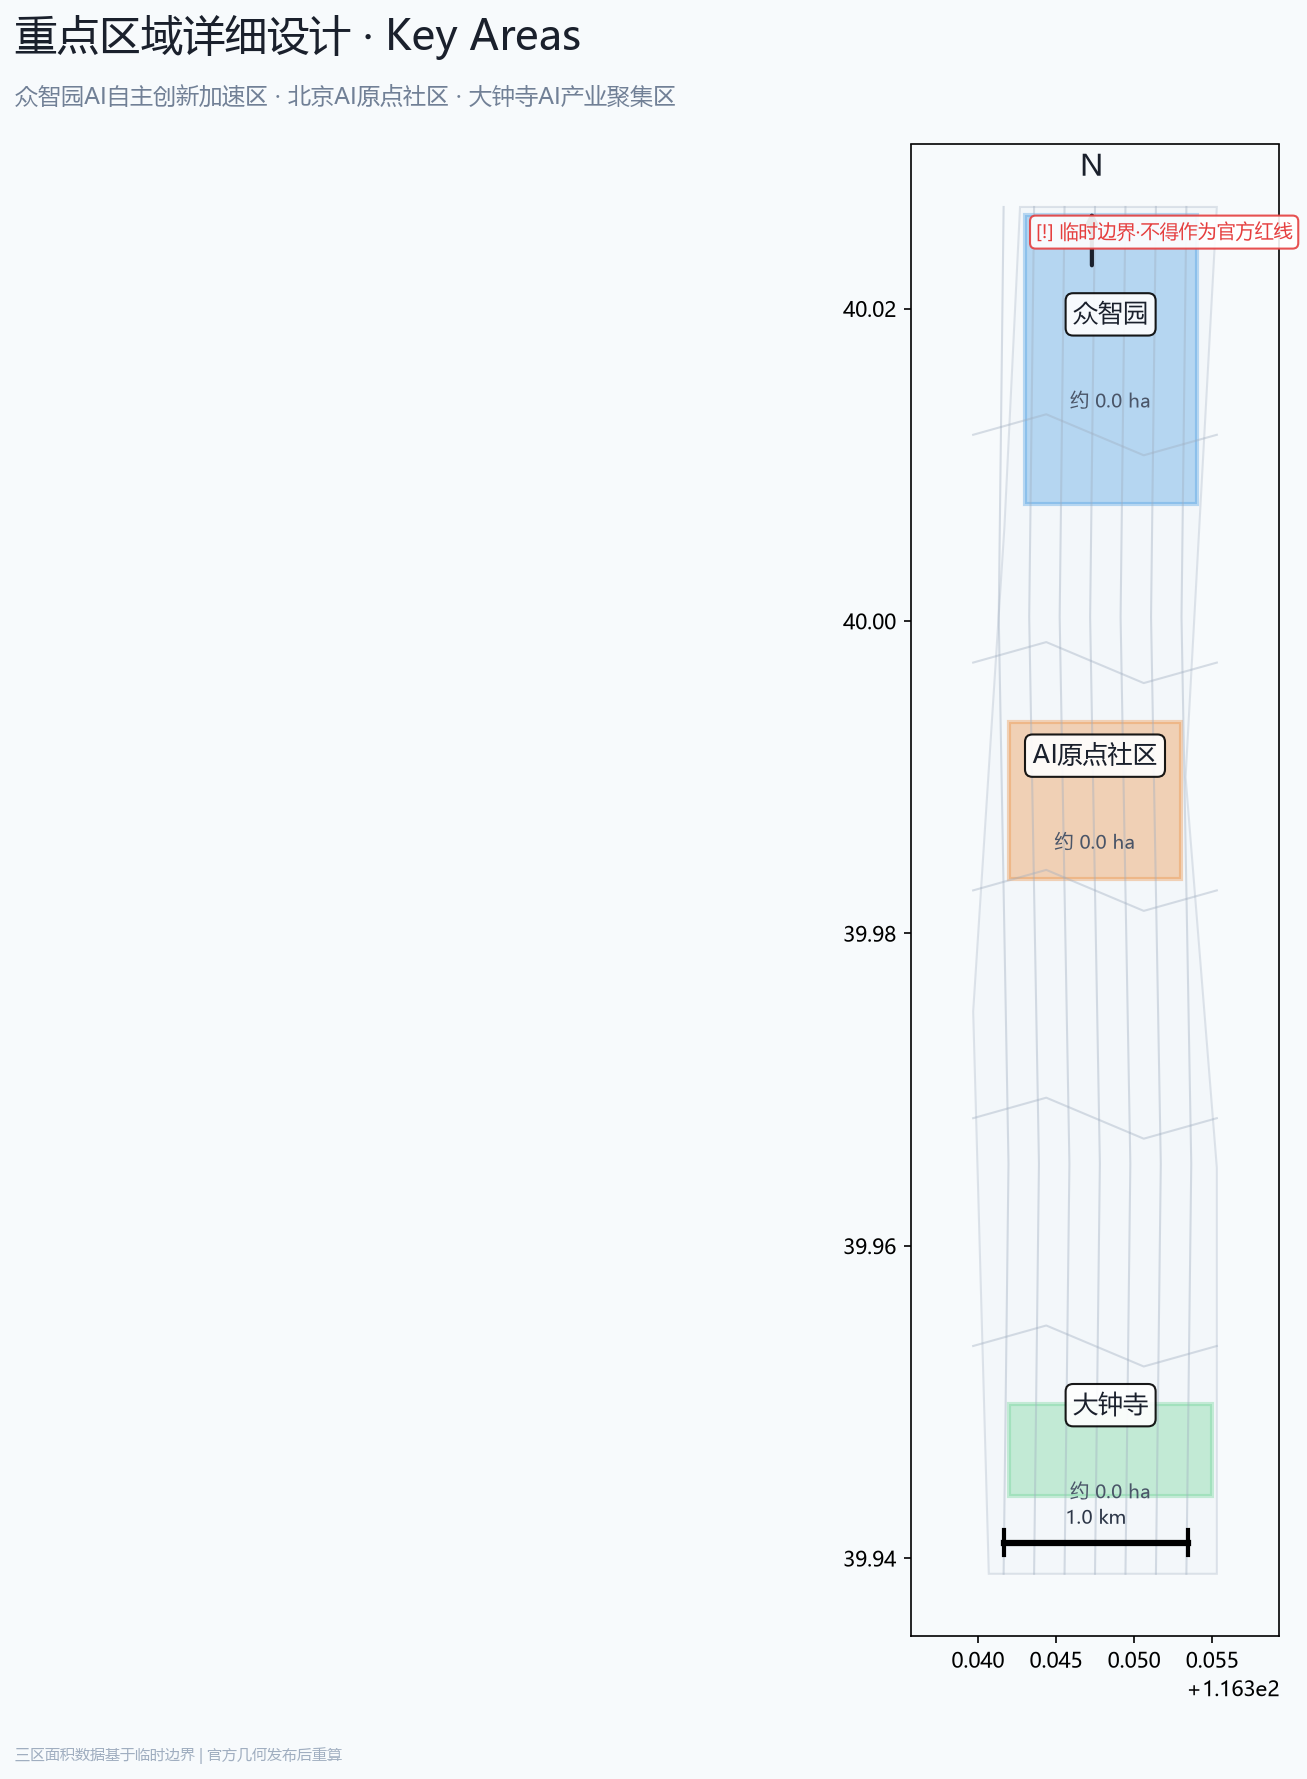
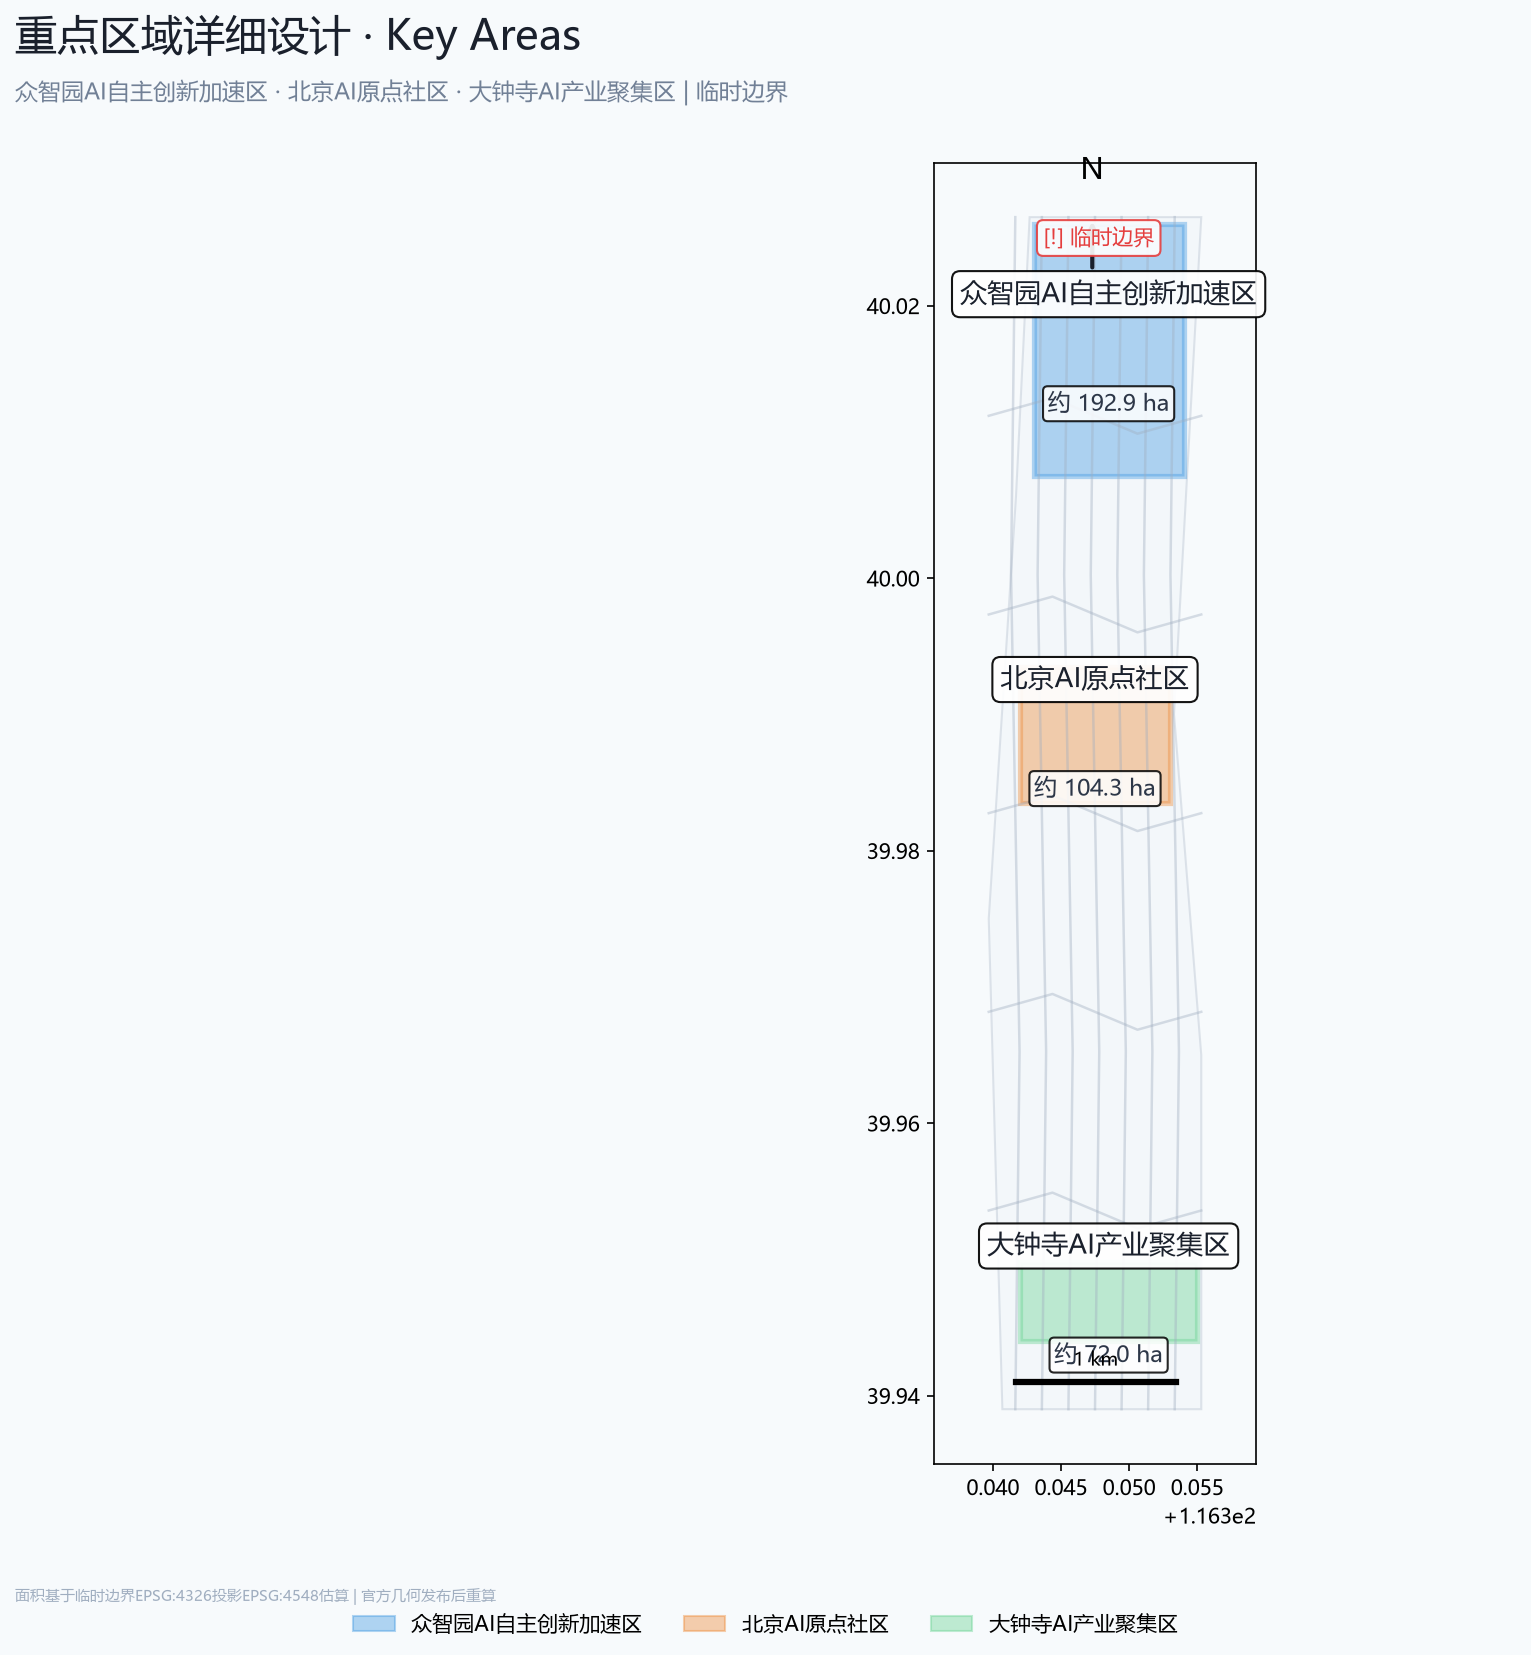
P0修复: 消除全部数值不一致 - 图件/HTML/矩阵
- key-areas.png: 0.0ha→192.9/104.3/72.0ha 实际面积标注
- visual/index.html: 产业25%→0%, 商业35.3%→24.6%
- design_depth_matrix: 清除18%/25%等旧值
- compliance_matrix: 清理假ID, 仅保留真实来源
- self_check: 假设26→10项匹配实际情况
- commercial_area_sqm公式: 09→05
- total_roads_km单位明确为m

diff --git a/submissions/hingsreXiao/jingzhang-intelligence-axis/visual/index.html b/submissions/hingsreXiao/jingzhang-intelligence-axis/visual/index.html
@@ -156,7 +156,7 @@ footer{text-align:center;padding:32px 20px;color:#a0aec0;font-size:13px;border-t
 
 <div class="metric-item">
 
-<div class="metric-val">~35.3%</div>
+<div class="metric-val">~24.6%</div>
 
 <div class="metric-label">绿地率</div>
 
@@ -186,7 +186,7 @@ footer{text-align:center;padding:32px 20px;color:#a0aec0;font-size:13px;border-t
 
 <div class="metric-item">
 
-<div class="metric-val">~25%</div>
+<div class="metric-val">0%(混合承载)</div>
 
 <div class="metric-label">产业研发用地</div>
 
@@ -196,7 +196,7 @@ footer{text-align:center;padding:32px 20px;color:#a0aec0;font-size:13px;border-t
 
 <div class="metric-item">
 
-<div class="metric-val">~35.3%</div>
+<div class="metric-val">~24.6%</div>
 
 <div class="metric-label">商业服务用地</div>
 
